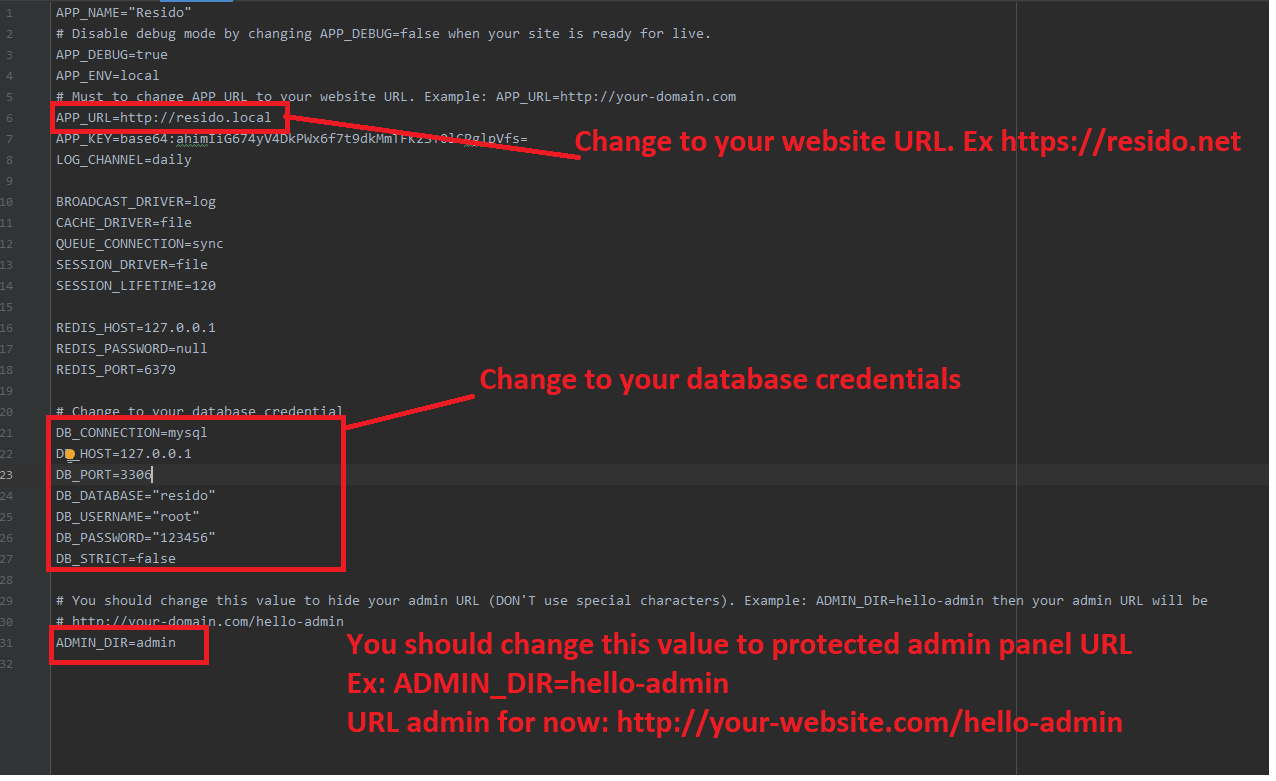
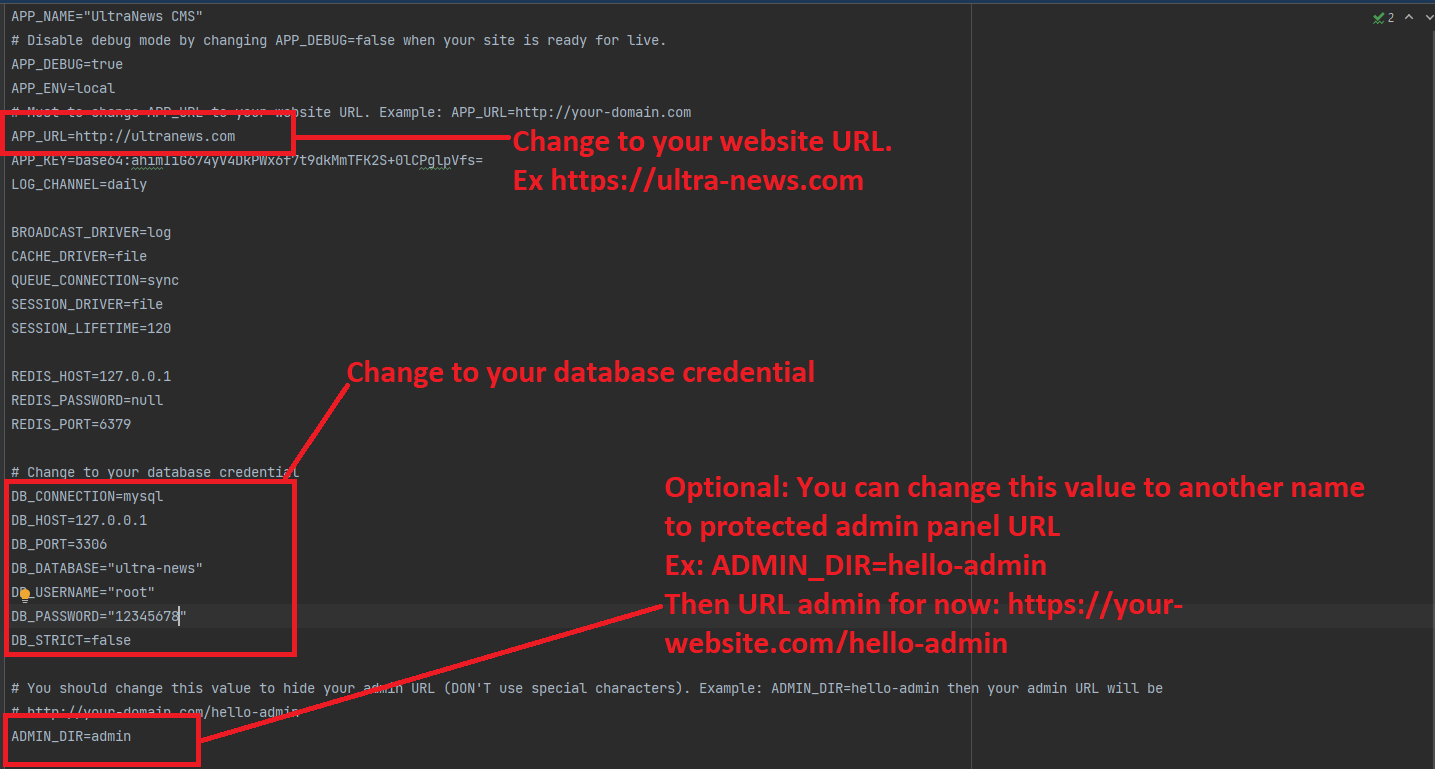
Installation page

Changed region(s): [[0.0, 0.0, 1.0, 1.0], [0.2445, 0.4609, 0.7641, 0.5224]]

diff --git a/index.html b/index.html
@@ -2,7 +2,7 @@
 <html lang="en">
   <head>
     <meta charset="UTF-8" />
-    <title>Flow – Laravel Personal Multilingual Blog Script</title>
+    <title>Ultra News – Create flexible news,magazine,blog and travel</title>
     <meta http-equiv="X-UA-Compatible" content="IE=edge,chrome=1" />
     <meta name="description" content="Description" />
     <meta
@@ -18,7 +18,7 @@
     <div id="app"></div>
     <script>
       window.$docsify = {
-        name: "<span>Flow 2.0.0</span>",
+        name: "<span>Ultra News 1.0.0</span>",
         search: {
           maxAge: 0,
           noData: 'No Results!',

diff --git a/upgrade.md b/upgrade.md
@@ -1,137 +1,1 @@
 # Upgrade Guide
-
-## Upgrade to 2.0.0
-
-> This version requires PHP >= 7.3, make sure your hosting support PHP 7.3 or higher.
-
-- For developers:
-  - Override folder `app`, `config`, `platform`, `public/themes`, `public/vendor` and `public/index.php` from the latest version.
-  - Update file `composer.json` and `composer.lock` from new source code.
-  - Delete folder `/vendor` then run `composer install` to upgrade vendor packages.
-  - Delete folder `public/vendor` and run command `php artisan vendor:publish --tag=cms-public --force`
-  - Delete folder `public/themes` and run command `php artisan cms:theme:assets:publish`
-  - Run command `php artisan vendor:publish --tag=cms-lang --force` to update translations.
-  - Run `php artisan optimize:clear` to clear cache.
-
-- For non-developers:
-  - Override folder `app`, `config`, `platform`, `public/themes`, `public/vendor` and `public/index.php` from the latest version.
-  - Override folder `public/themes`, `public/vendor`, `bootstrap`, `vendor` from the latest version.
-  - Delete all files in `storage/framework/views` and `storage/framework/cache`.
-  - Go to Admin -> Translations -> Admin translations then click on `Import group` to update translations.
-
-## Upgrade to 1.6.0
-
-> This version requires PHP >= 7.3, make sure your hosting support PHP 7.3 or higher.
-
-- For developers:
-  - Override folder `app`, `config`, `platform`, `public/themes`, `public/vendor` and `public/index.php` from the latest version.
-  - Update file `composer.json` and `composer.lock` from new source code.
-  - Delete folder `/vendor` then run `composer install` to upgrade vendor packages.
-  - Delete folder `public/vendor` and run command `php artisan vendor:publish --tag=cms-public --force`
-  - Delete folder `public/themes` and run command `php artisan cms:theme:assets:publish`
-  - Run command `php artisan vendor:publish --tag=cms-lang --force` to update translations.
-  - Run `php artisan optimize:clear` to clear cache.
-
-- For non-developers:
-  - Override folder `app`, `config`, `platform`, `public/themes`, `public/vendor` and `public/index.php` from the latest version.
-  - Override folder `public/themes`, `public/vendor`, `bootstrap`, `vendor` from the latest version.
-  - Delete all files in `storage/framework/views` and `storage/framework/cache`.
-  - Go to Admin -> Translations -> Admin translations then click on `Import group` to update translations.
-
-
-## Upgrade to 1.5.0
-
-> This version requires PHP >= 7.3, make sure your hosting support PHP 7.3 or higher.
-
-- For developers:
-  - Override folder `app`, `config`, `platform`, `public/themes`, `public/vendor` and `public/index.php` from the latest version.
-  - Update file `composer.json` and `composer.lock` from new source code.
-  - Delete folder `/vendor` then run `composer install` to upgrade vendor packages.
-  - Delete folder `public/vendor` and run command `php artisan vendor:publish --tag=cms-public --force`
-  - Delete folder `public/themes` and run command `php artisan cms:theme:assets:publish`
-  - Run command `php artisan vendor:publish --tag=cms-lang --force` to update translations.
-  - Run `php artisan optimize:clear` to clear cache.
-
-- For non-developers:
-  - Override folder `app`, `config`, `platform`, `public/themes`, `public/vendor` and `public/index.php` from the latest version.
-  - Override folder `public/themes`, `public/vendor`, `bootstrap`, `vendor` from the latest version.
-  - Delete all files in `storage/framework/views` and `storage/framework/cache`.
-  - Go to Admin -> Translations -> Admin translations then click on `Import group` to update translations.
-
-## Upgrade to 1.4.0
-
-> This version requires PHP >= 7.3, make sure your hosting support PHP 7.3 or higher.
-
-- For developers:
-  - Override folder `app`, `config`, `platform`, `public/themes`, `public/vendor` and `public/index.php` from the latest version.
-  - Update file `composer.json` and `composer.lock` from new source code.
-  - Delete folder `/vendor` then run `composer install` to upgrade vendor packages.
-  - Delete folder `public/vendor` and run command `php artisan vendor:publish --tag=cms-public --force`
-  - Delete folder `public/themes` and run command `php artisan cms:theme:assets:publish`
-  - Run command `php artisan vendor:publish --tag=cms-lang --force` to update translations.
-  - Run `php artisan optimize:clear` to clear cache.
-
-- For non-developers:
-  - Override folder `app`, `config`, `platform`, `public/themes`, `public/vendor` and `public/index.php` from the latest version.
-  - Override folder `public/themes`, `public/vendor`, `bootstrap`, `vendor` from the latest version.
-  - Delete all files in `storage/framework/views` and `storage/framework/cache`.
-  - Go to Admin -> Translations -> Admin translations then click on `Import group` to update translations.
-
-
-## Upgrade to 1.3.0
-
-> This version requires PHP >= 7.3, make sure your hosting support PHP 7.3 or higher.
-
-- For developers:
-  - Override folder `app`, `config`, `platform`, `public/themes`, `public/vendor` and `public/index.php` from the latest version.
-  - Update file `composer.json` and `composer.lock` from new source code.
-  - Delete folder `/vendor` then run `composer install` to upgrade vendor packages.
-  - Delete folder `public/vendor` and run command `php artisan vendor:publish --tag=cms-public --force`
-  - Delete folder `public/themes` and run command `php artisan cms:theme:assets:publish`
-  - Run command `php artisan vendor:publish --tag=cms-lang --force` to update translations.
-  - Run `php artisan optimize:clear` to clear cache.
-
-- For non-developers:
-  - Override folder `app`, `config`, `platform`, `public/themes`, `public/vendor` and `public/index.php` from the latest version.
-  - Override folder `public/themes`, `public/vendor`, `bootstrap`, `vendor` from the latest version.
-  - Delete all files in `storage/framework/views` and `storage/framework/cache`.
-  - Go to Admin -> Translations -> Admin translations then click on `Import group` to update translations.
-
-
-## Upgrade to 1.2.0
-
-> This version requires PHP >= 7.3, make sure your hosting support PHP 7.3 or higher.
-
-- For developers:
-  - Override folder `app`, `config`, `platform`, `public/themes`, `public/vendor` and `public/index.php` from the latest version.
-  - Update file `composer.json` and `composer.lock` from new source code.
-  - Delete folder `/vendor` then run `composer install` to upgrade vendor packages.
-  - Delete folder `public/vendor` and run command `php artisan vendor:publish --tag=cms-public --force`
-  - Delete folder `public/themes` and run command `php artisan cms:theme:assets:publish`
-  - Run command `php artisan vendor:publish --tag=cms-lang --force` to update translations.
-  - Run `php artisan optimize:clear` to clear cache.
-
-- For non-developers:
-  - Override folder `app`, `config`, `platform`, `public/themes`, `public/vendor` and `public/index.php` from the latest version.
-  - Override folder `public/themes`, `public/vendor`, `bootstrap`, `vendor` from the latest version.
-  - Delete all files in `storage/framework/views` and `storage/framework/cache`.
-  - Go to Admin -> Translations -> Admin translations then click on `Import group` to update translations.
-
-## Upgrade to 1.1.0
-
-> This version requires PHP >= 7.3, make sure your hosting support PHP 7.3 or higher.
-
-- For developers:
-  - Override folder `app`, `config`, `platform`, `public/themes`, `public/vendor` and `public/index.php` from the latest version.
-  - Update file `composer.json` and `composer.lock` from new source code.
-  - Delete folder `/vendor` then run `composer install` to upgrade vendor packages.
-  - Delete folder `public/vendor` and run command `php artisan vendor:publish --tag=cms-public --force`
-  - Delete folder `public/themes` and run command `php artisan cms:theme:assets:publish`
-  - Run command `php artisan vendor:publish --tag=cms-lang --force` to update translations.
-  - Run `php artisan optimize:clear` to clear cache.
-
-- For non-developers:
-  - Override folder `app`, `config`, `platform`, `public/themes`, `public/vendor` and `public/index.php` from the latest version.
-  - Override folder `public/themes`, `public/vendor`, `bootstrap`, `vendor` from the latest version.
-  - Delete all files in `storage/framework/views` and `storage/framework/cache`.
-  - Go to Admin -> Translations -> Admin translations then click on `Import group` to update translations.

diff --git a/releases.md b/releases.md
@@ -1,91 +1,2 @@
-# Release Notes
-
-## 2.0.0 ( Sep 03, 2021 )
-
-- Ajax comment system
-- Improve UI
-- Improve Blog & newsletter
-- Update email
-- Update core
-- Update watermark
-
-## 1.6.0 ( Aug 21, 2021 )
-
-- Support Table of Contents
-- Update core
-
-## 1.5.0 ( Aug 01, 2021 )
-
-> Theme 
-
-- Update footer option
-
-> Backend
-
-- Fix bugs plugin post schedule
-- Update core
-- Update media and shortcode
-
-
-## 1.4.0 ( Jul 27, 2021 )
-
-
-> Backend
-
-- Update CKEditor and TinyMCE to the latest version (version 5).
-- Update media: Add a button to download media files from URL.
-- Able to add multiple admin emails in Admin -> Settings -> General.
-- Big change on blog categories. Hierarchical tree structured category https://prnt.sc/1g4dr0n.
-
-## 1.3.0 ( Jul 14, 2021 )
-
-> Theme 
-
-- Add plugin post schedule
-
-> Backend
-
-- Add Wasabi cloud storage support.
-- Allow to config the default placeholder image.
-- Improve media, translations & backup.
-- Improve UI.
-- Optimize queries.
-- Refactor code & improve performance.
-- Fix some bugs on PHP 8.
-
-## 1.2.0 ( June 21, 2021 )
-
-> Theme 
-
-- Fix Ads
-- Improve UI Wiget Newsletter.
-
-> Backend
-
-- Optimize queries.
-- Refactor code & improve performance.
-- Improve theme translations & Backup
-- Fix plugin Language & Ads
-
-## 1.1.0 ( June 13, 2021 )
-
-> Theme 
-- Added RTL support
-- Improve UI.
-
-> Backend
-- Added RTL support for the admin panel.
-- Fix some errors on PHP 8.
-- Fix blog API.
-- Improve media, fix some errors with SVG.
-- Optimize queries.
-- Refactor code & improve performance.
-
-## 1.0.1 ( Jun 08, 2021 )
-
-> Backend
-- Fix license activation error.
-- Improve core.
-
-## 1.0.0 ( Feb 23, 2021 )
+## 1.0.0 ( Sep 15, 2021 )
 - Initial release version 1.0

diff --git a/install-on-hosting.md b/install-on-hosting.md
@@ -3,13 +3,13 @@
 1. Upload all files into the root folder of your hosting (normally, it is `public_html`) .
 
 ![Database](_images/installation/hosting_folder.png)
-2. Create a database and import data from database.sql (it's located in source code).
+2. Create a database from database management and import from file database.sql (this file in source code).
 
-![Database](_images/installation/folder-flow.png)
+![Database](_images/installation/database_folder.png)
 
-3. Open file `.env` and and update it with your credentials.
+3. Open file `.env` and update your credentials.
 
-+ You need to setup database connection before doing the next steps.
++ **You need to set up database connection before doing the next steps.**
 ~~~
 DB_HOST=127.0.0.1
 DB_PORT=3306
@@ -20,10 +20,11 @@ DB_PASSWORD="password"
 + Make sure `APP_URL` in `.env` is correct your domain. It should be `APP_URL=http://your-domain.com`
   ![Env](_images/installation/config-env.png)
   
-4. Go to `http://your-domain.com/admin` to access to admin panel.
+4. **Well done!** Go to admin panel to manage your site `http://your-domain.com/admin` 
 - The default admin account is `admin` - `12345678`
 
   ![Login](_images/installation/admin-login.png)
 
-**Notes**: We are providing free installation service on Cpanel or Direct Admin for 1 time so you can contact us for installation if you can't install it.
-Please send an email to thesky9.com@gmail.com
+**Notes**: *We are providing free installation service on Cpanel or Direct Admin for 1 time. 
+So you can contact us for installation if you can't do it successfully.
+Please send an email to **thesky9.com@gmail.com***

diff --git a/README.md b/README.md
@@ -1,4 +1,4 @@
-# Ultra Nes - Create flexible news,magazine,blog and travel
+# Ultra News - Create flexible news,magazine,blog and travel
 
 - [Introduction](#introduction)
 - [Demo](#demo)
@@ -8,17 +8,16 @@
 <a name="introduction"></a>
 ## Introduction
 
-UltraNews is a Creative Multilingual Blog script using Laravel 8.x. It's a product built on TheSky9 CMS.
+UltraNews is a Creative Multilingual News script using Laravel 8.x.
 
-Created: `May 28, 2021`
+It is a powerful, multipurpose and modern Bootstrap 4 magazine template with pixel perfect design, outstanding features, fully responsive and mobile-friendly. It is a very flexible and well suited for recipe, fashion, travel, technology, personal or any other awesome magazine and blog websites.
 
-By: [TheSky9 Technologies](https://thesky9.com)
-
-Email: [contact@thesky9.com](mailto:contact@thesky9.com)
+By: [TheSky9 Technologies](https://thesky9.com) Email: [contact@thesky9.com](mailto:contact@thesky9.com)
 
 Thank you for purchasing this product. If you have any questions that are beyond the scope of this help file, 
 please feel free to email via my user page contact form [here](https://codecanyon.net.net/user/thesky9) for quickly support. Thank you so much!
-![intro](/_images/intro.jpg)		
+
+![intro](/_images/intro.png)		
 <a name="demo"></a>
 ## Demo
 

diff --git a/install-on-vps.md b/install-on-vps.md
@@ -14,7 +14,7 @@
 
     - Run `php artisan cms:user:create` to create admin user.
     
-    - Run `php artisan cms:theme:activate flow`
+    - Run `php artisan cms:theme:activate news`
 
 - If you're pulled source code from GIT server:
     - Run `php artisan vendor:publish --tag=cms-public --force`

diff --git a/_sidebar.md b/_sidebar.md
@@ -6,7 +6,7 @@
   - [Introduction](README.md)
   - [Requirement](requirement.md)
   - [Install on hosting](install-on-hosting.md)
-  - [Install on vps](install-on-vps.md)
+  - [Install locally or in VPS](install-on-vps.md)
   - [Ssl](ssl.md)
 - User guide
   - [Custom Site Identity](general.md)

diff --git a/_navbar.md b/_navbar.md
@@ -1,1 +1,1 @@
-* [PREVIEW](https://flow.thesky9.com/)
+* [PREVIEW](https://ultra-news.thesky9.com/)
